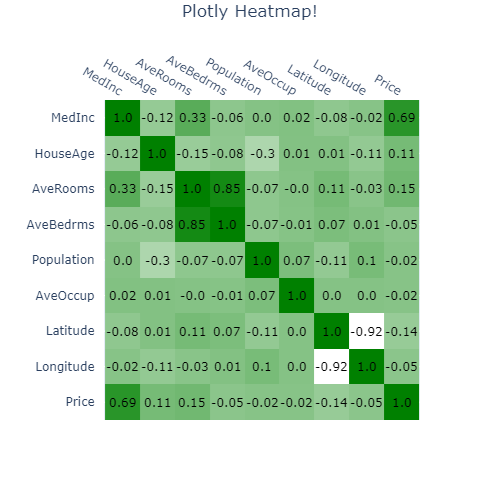
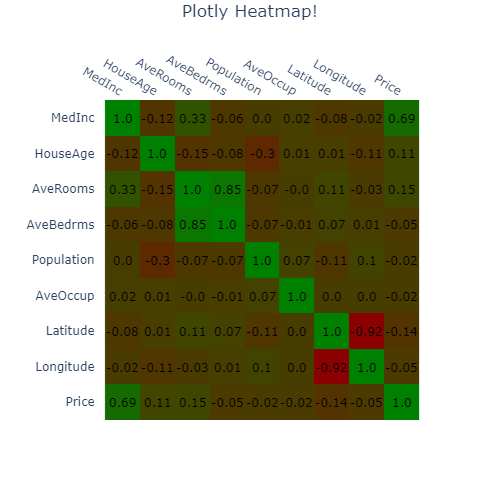
GitBook: [master] one page and 5 assets modified

diff --git a/datavis-miscellanea/untitled.md b/datavis-miscellanea/untitled.md
@@ -8,7 +8,7 @@ description: '#plotly #heatmap'
 
 ## Output and Full Code
 
-![](../.gitbook/assets/newplot.png)
+![](../.gitbook/assets/newplot%20%281%29.png)
 
 ```python
 import plotly.figure_factory as ff
@@ -54,10 +54,10 @@ def plot_heatmap(df_heatmap, title='Heatmap', xaxis_title='', yaxis_title='', n_
         colorscale = [[0, 'white'], [1, 'green']]
         font_colors = ['black', 'black']
     elif n_colors == 2:
-        colorscale = [[0, 'darkred'], [1, 'green']]
+        colorscale = [[0, 'lightblue'], [1, 'red']]
         font_colors = ['black', 'black']
     elif n_colors == 3:
-        colorscale = [[0, 'darkred'], [.5, 'white'], [1, 'green']]
+        colorscale = [[0, 'lightblue'], [.5, 'white'], [1, 'red']]
         font_colors = ['black', 'black', 'black']
     fig = ff.create_annotated_heatmap(np.round(df_heatmap.values[::-1],2), 
                                       x = list(df_heatmap.columns),
@@ -100,7 +100,7 @@ Let's see how the code is organized step but step.
   from sklearn.datasets import fetch_california_housing
   ```
 
-* Step 2. Importing data from sklearn. We will use california housing dataset. We gather inputs and output into a unique DataFrame which will be used to test 
+* Step 2. Importing data from sklearn. We will use california housing dataset. We gather inputs and output into a unique DataFrame which will be used to test the function.
 
   ```python
   data = fetch_california_housing()
@@ -110,25 +110,114 @@ Let's see how the code is organized step but step.
   df['Price'] = Y
   ```
 
-* Step 3
+* Step 3. Defining function and all its inputs, as specified in the description.
 
   ```python
-  print(x)
+  def plot_heatmap(df_heatmap, title='Heatmap', xaxis_title='', yaxis_title='', n_colors=1, figsize=500, filename=''):
+      """
+      Description
+
+      Parameters
+      ----------
+      df_heatmap : pandas DataFrame
+      title : string, default 'Heatmap'
+          Plot title
+      xaxis_title : string, default ''
+          Name of the x axis
+      yaxis_title : string, default ''
+          Name of the y axis
+      n_colors : {1, 2, 3}, default 1
+          Number of colors to use in the Heatmap
+      figsize : int, default 500
+          Dimension of the square image (figsize, figsize)
+      filename : string, default ''
+          Name of the filaname. If filename != '' then the image 
+          is saved with the filename specified. 
+          Supported formats:
+          - png (static image)
+          - html (interactive image)
+
+      Returns
+      -------
+      Plotly image
+      """
   ```
 
-* Step 4
+* Step 4. Setting colors number, colorscale \(= background color\) and font\_colors \(= color of the annotations for the Heatmap\).
 
   ```python
-  print(x)
+      if n_colors == 1:
+          colorscale = [[0, 'white'], [1, 'green']]
+          font_colors = ['black', 'black']
+      elif n_colors == 2:
+          colorscale = [[0, 'lightblue'], [1, 'red']]
+          font_colors = ['black', 'black']
+      elif n_colors == 3:
+          colorscale = [[0, 'lightblue'], [.5, 'white'], [1, 'red']]
+          font_colors = ['black', 'black', 'black']
   ```
 
-* Step 5
+* Step 5. Create the Heatmap. Please note that the numbers are rounded to the second decimal. The order of the rows is reversed by the command \[::-1\] due to Plotly default settings.
 
   ```python
-  print(x)
+      fig = ff.create_annotated_heatmap(np.round(df_heatmap.values[::-1],2), 
+                                        x = list(df_heatmap.columns),
+                                        y = list(df_heatmap.index)[::-1],
+                                        colorscale=colorscale, font_colors=font_colors)
+  ```
+
+* Step 6. Updating layout of the plot in terms of figure size \(squared: figsize x figsize\), plot title and axis titles.
+
+  ```python
+      fig.update_layout(
+          autosize=False,
+          width=figsize,
+          height=figsize,
+          title={'text':title,'x':.5,'y':.99},
+          xaxis_title=xaxis_title,
+          yaxis_title=yaxis_title,
+      )
+  ```
+
+* Step 7. If filename argument is passed, the plot will be saved either as an html page or png file \(depending on filename extension\).
+
+  ```python
+      if filename.endswith('.html'):
+          fig.write_html(filename)
+      elif filename.endswith('.png'):
+          fig.write_image(filename)
+  ```
+
+* Step 8. Show the figure created.
+
+  ```python
+      fig.show()
+  ```
+
+* Step 9. Use the function to plot the image shown above. In this case we plot the correlation matrix of the DataFrame using Pandas inner method and passing 'Plotly Heatmap!' string as plot title.
+
+  ```python
+  plot_heatmap(df.corr(), title='Plotly Heatmap!')
   ```
 
 ## Final thoughts / recommendation
+
+This function can be used for different purposes, like confusion matrix, correlations,  try different argument values to test it.
+
+Example, two colors correlation matrix:
+
+```python
+plot_heatmap(df.corr(), n_colors=2, title='Plotly Heatmap: 2 colors')
+```
+
+![](../.gitbook/assets/newplot-3.png)
+
+```python
+plot_heatmap(df.corr(), n_colors=3, title='Plotly Heatmap: 3 colors', 
+             xaxis_title='variabile_x', yaxis_title='variabile_y')
+```
+
+![](../.gitbook/assets/newplot-4.png)
 
 Use this at your own risk!
 
